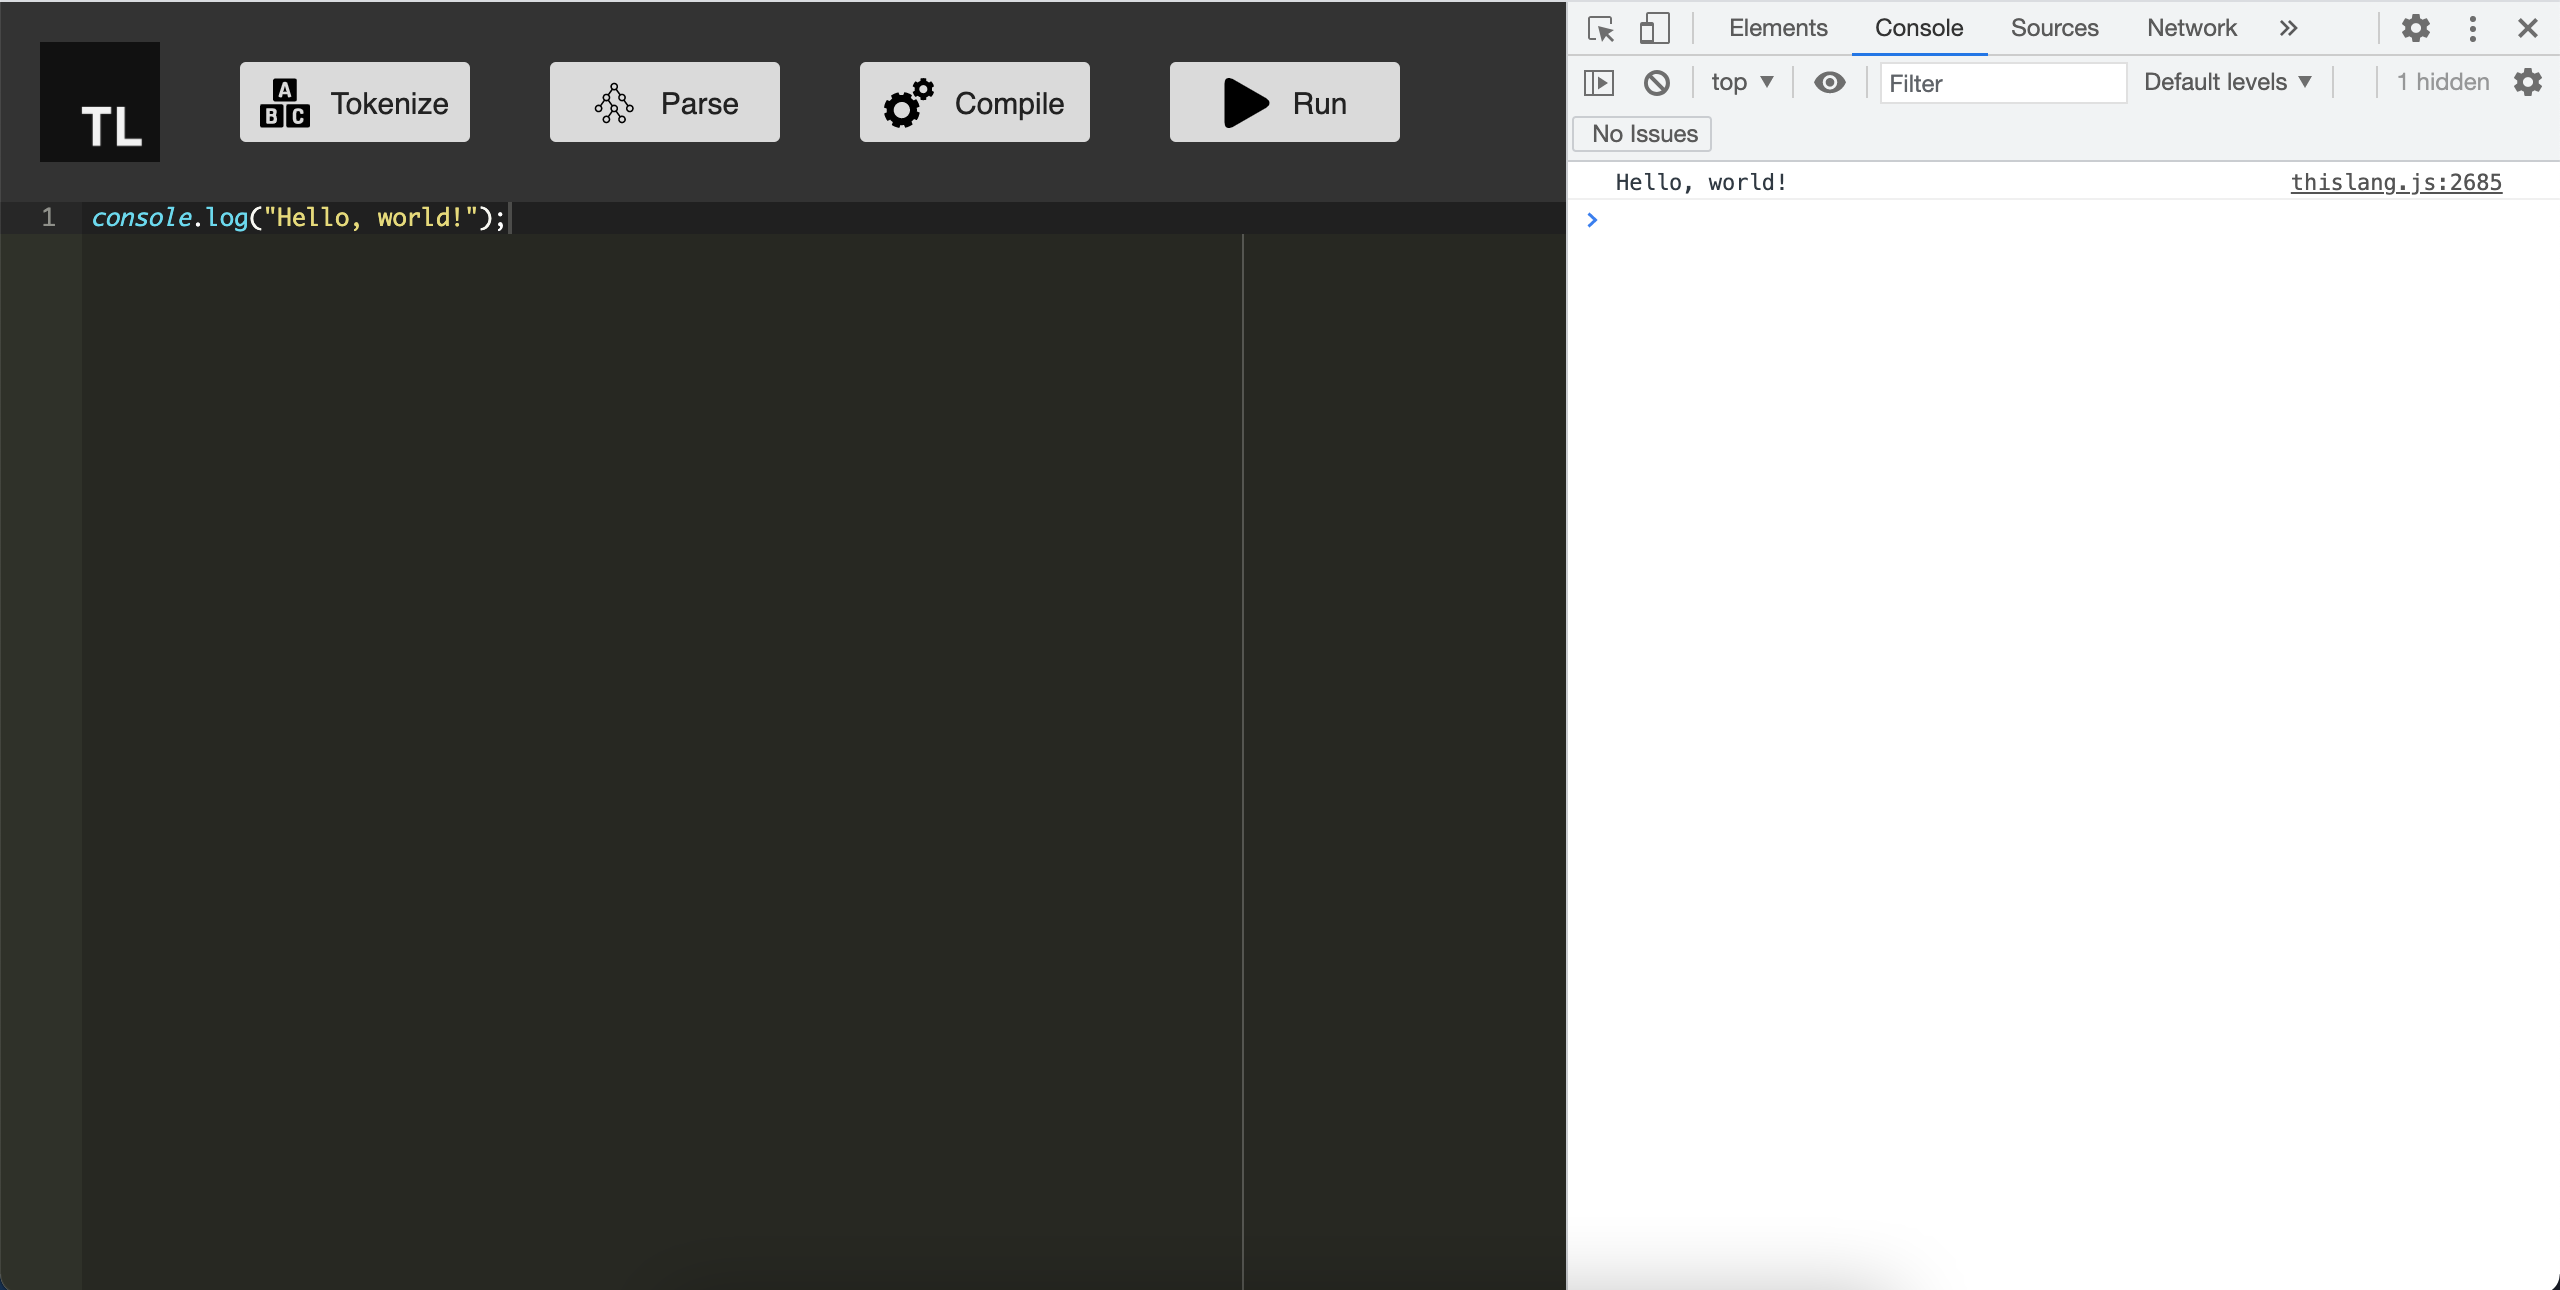
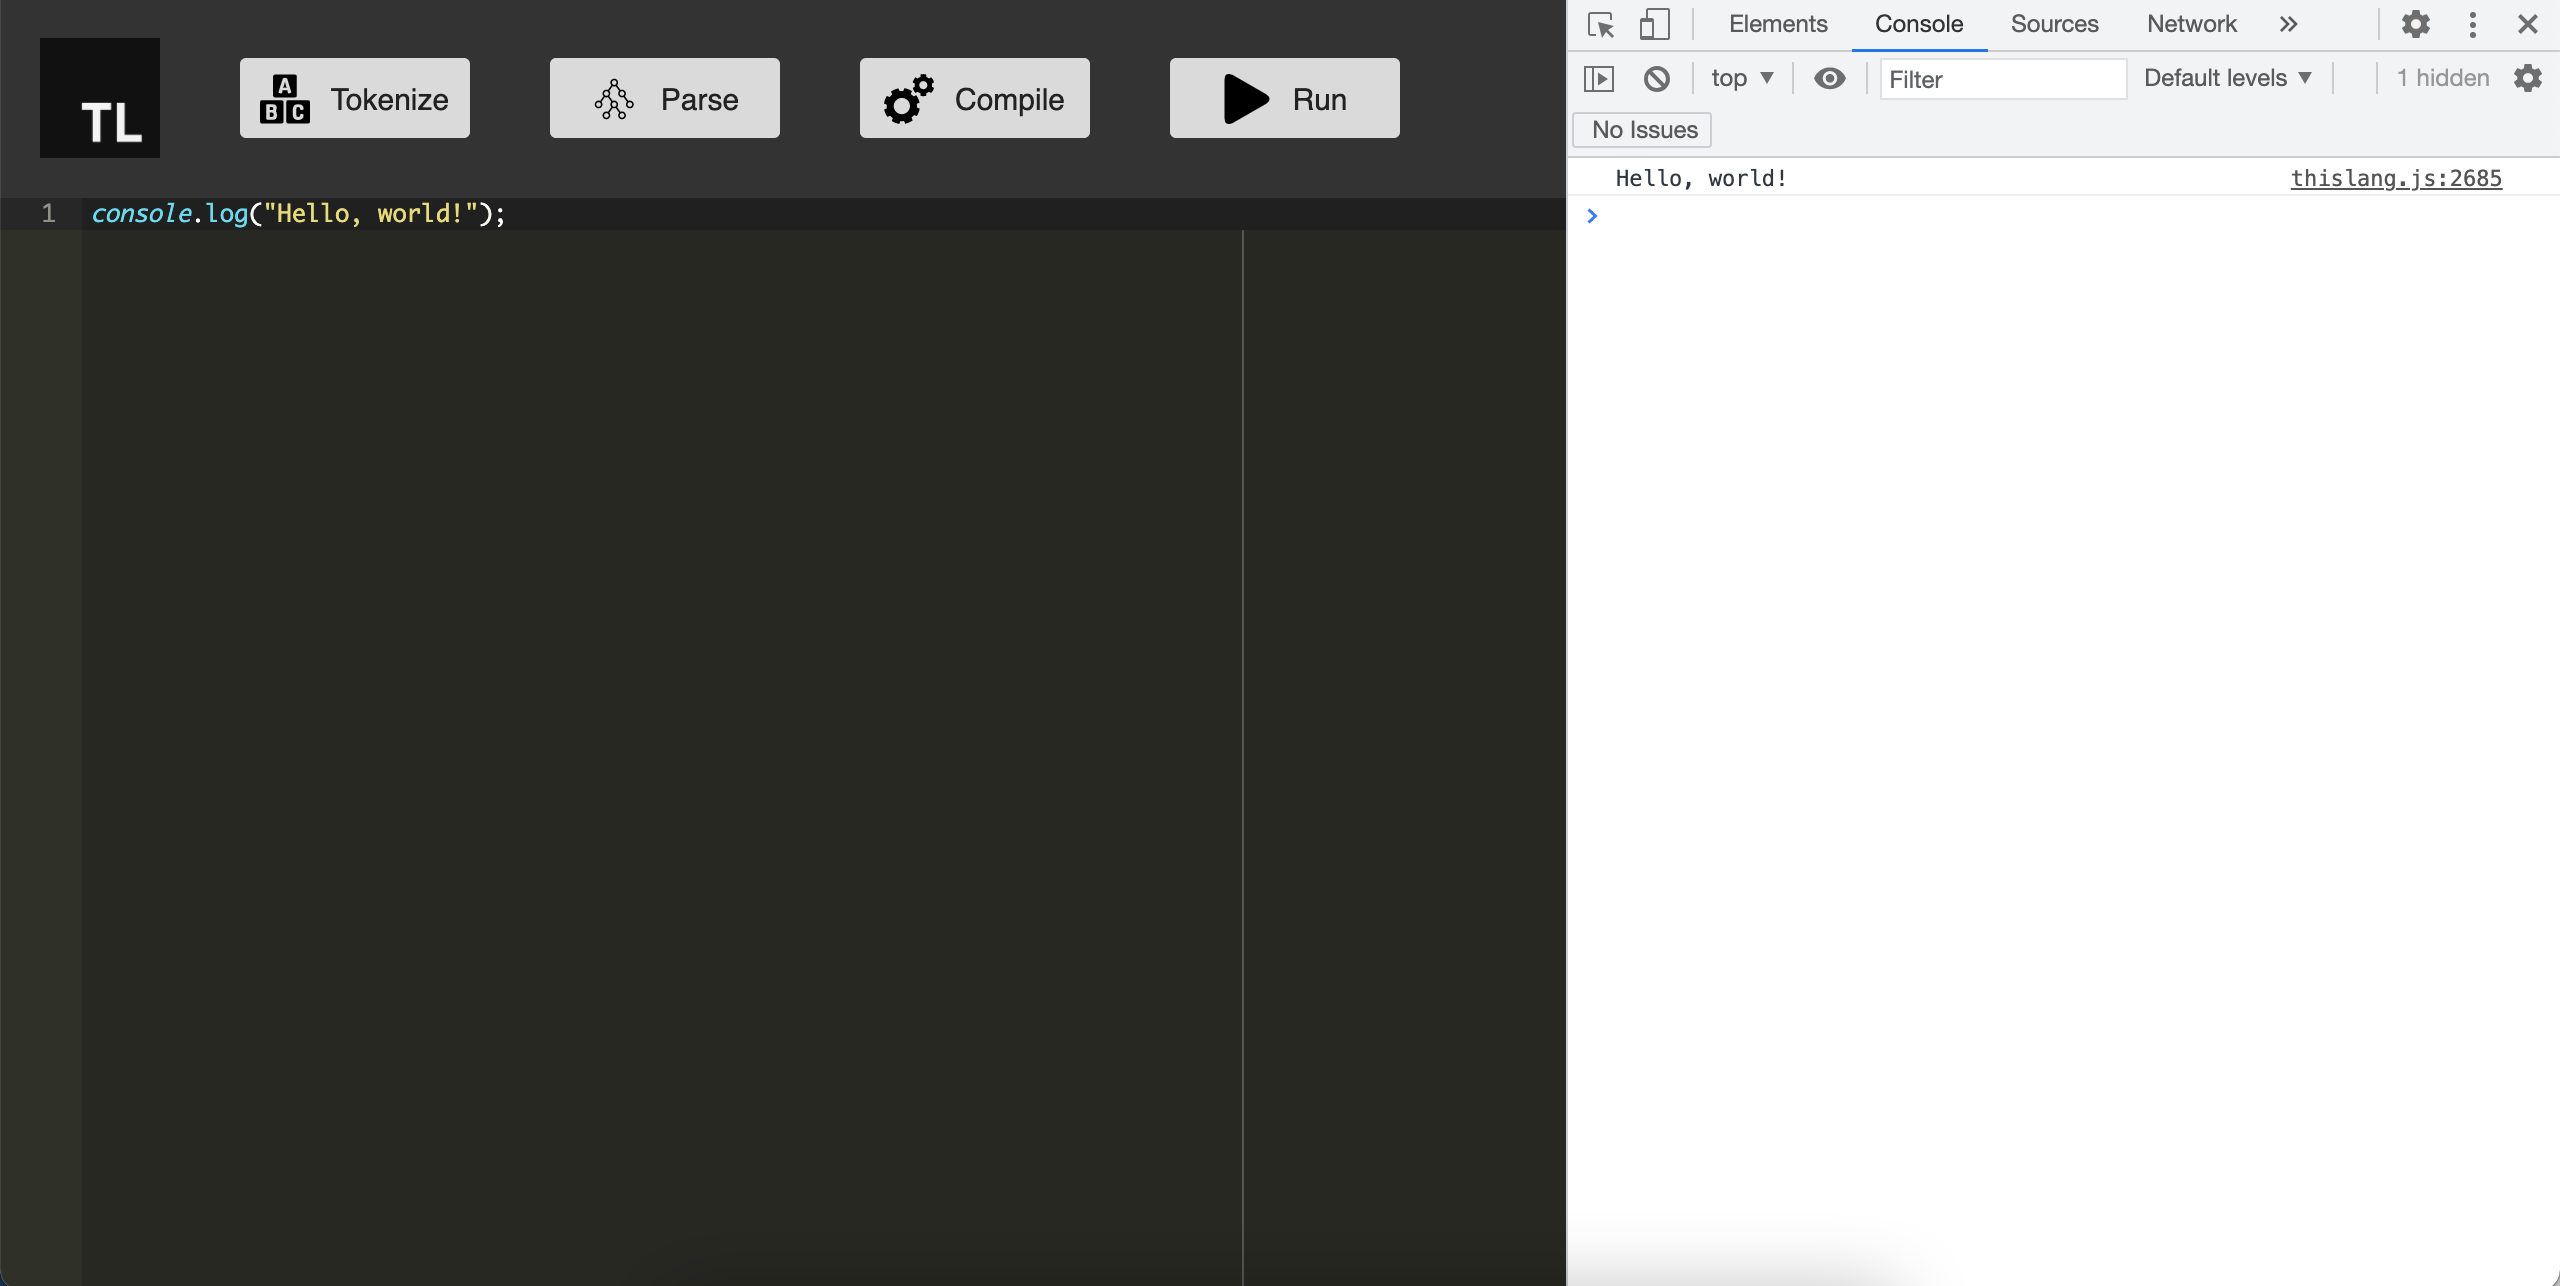
add screenshot

diff --git a/README.md b/README.md
@@ -13,6 +13,10 @@ This-lang (thislang) is an implementation of a subset of Javascript in that subs
 **All output is logged to console**. So to use thislang you'll need to open up the console in your browser.
 https://blueblazin.github.io/thislang/
 
+<p align="center">
+  <img src="https://raw.githubusercontent.com/BlueBlazin/thislang/master/screenshot.png" width="700" height="350" alt="webapp screenshot"/>
+</p>
+
 ## Features
 
 - Data types:
